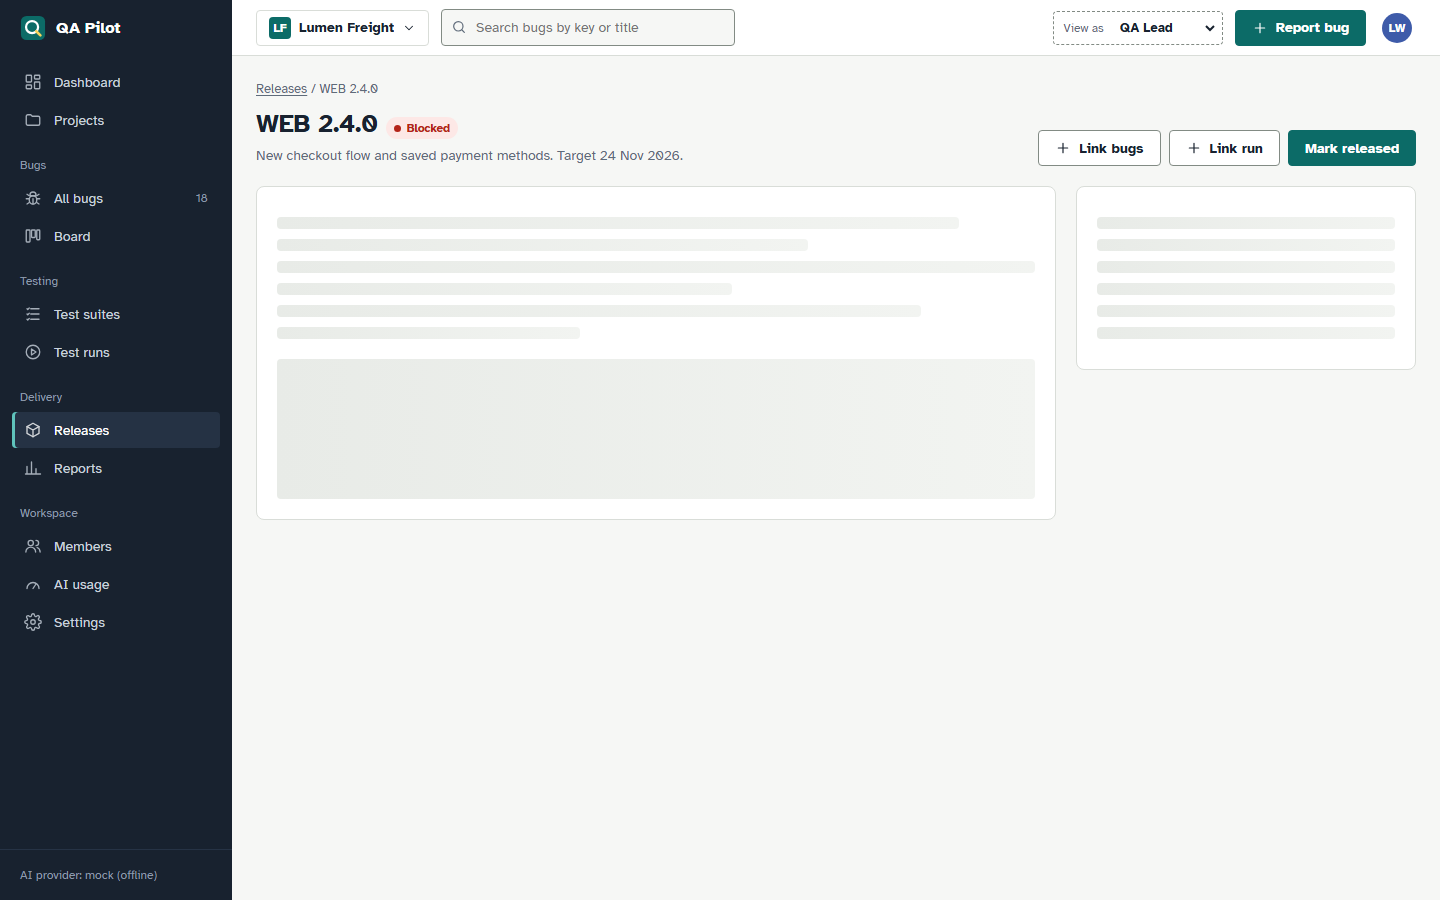
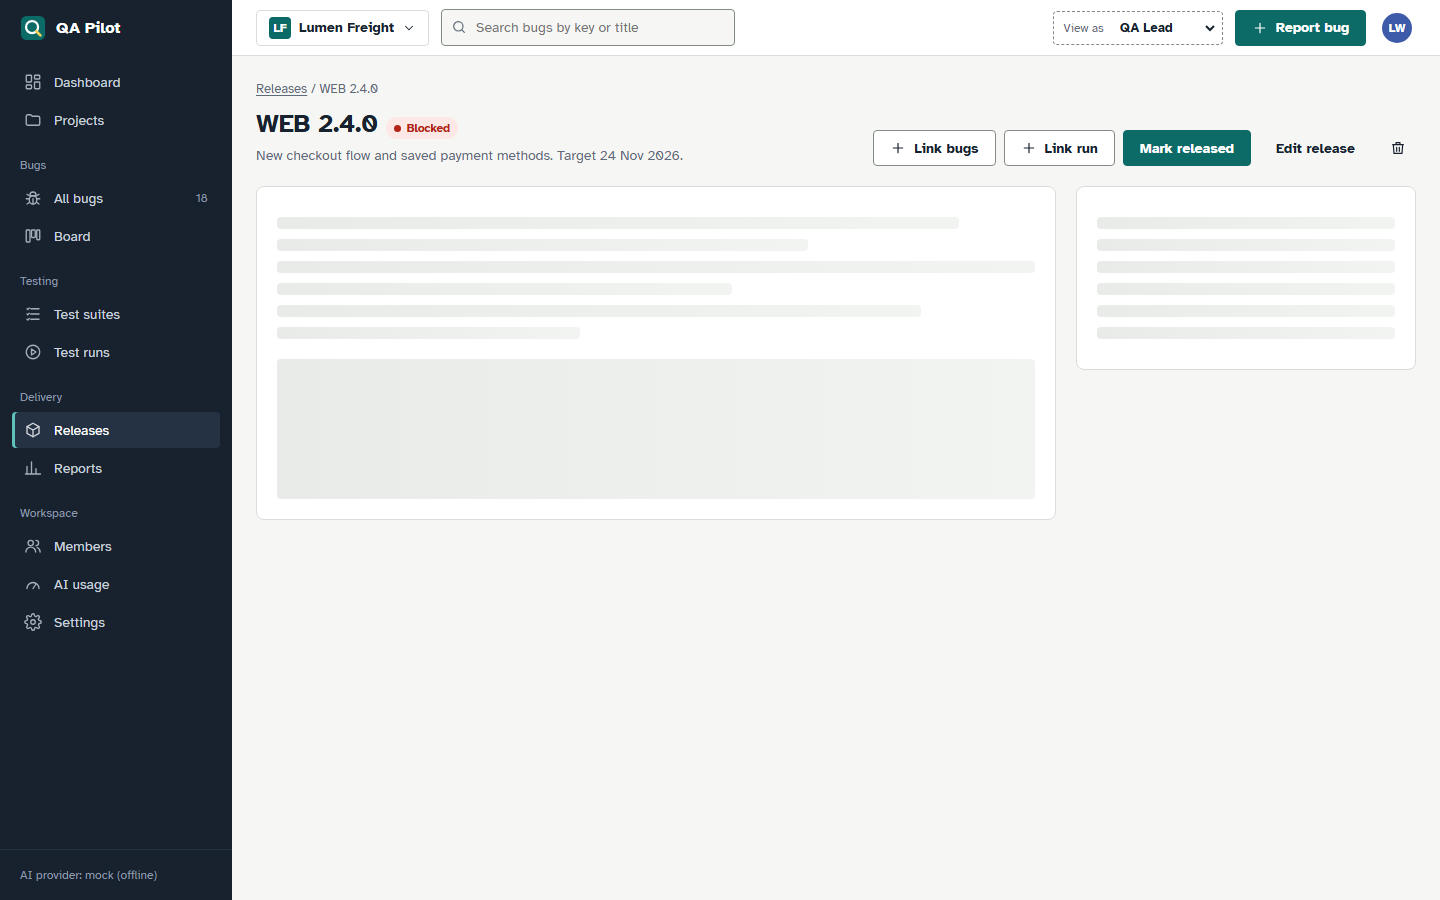
design: Edit release, Delete and a Remove column on the release detail (prototype first, I-08)

Changed region(s): [[0.7188, 0.1244, 1.0, 0.1867], [0.625, 0.1556, 0.6875, 0.1867]]

diff --git a/design/reference/approved.html b/design/reference/approved.html
@@ -1137,10 +1137,10 @@ function filteredBugs() {
   if (F.sort === 'priority') list.sort((a, b) => a.pri.localeCompare(b.pri) || a.h - b.h);
   return list;
 }
-function bugTable(list, sortable = true) {
+function bugTable(list, sortable = true, removable = false) {
   const sortBtn = (k, label) => sortable ? `<button data-action="sort" data-sort="${k}" aria-label="Sort by ${label}">${label}${F.sort === k ? ic.down.replace('<svg', '<svg width="12" height="12"') : ''}</button>` : label;
-  return `<div class="table-wrap"><table class="t stackable"><thead><tr><th>Key</th><th>Title</th><th>Status</th><th>${sortBtn('severity', 'Severity')}</th><th>${sortBtn('priority', 'Priority')}</th><th>Assignee</th><th>${sortBtn('updated', 'Updated')}</th></tr></thead><tbody>
-    ${list.map(b => `<tr><td data-label="Key" class="no-label"><span class="mono muted">${b.key}</span></td><td class="title-cell"><a href="${o('/bugs/' + b.key)}">${esc(b.title)}</a><div class="xs muted">${esc(b.comp)}, ${b.env}${b.labels.length ? ' ' + labelChips(b.labels) : ''}</div></td><td data-label="Status">${stBadge(b.status)}</td><td data-label="Severity">${sevBadge(b.sev)}</td><td data-label="Priority">${priTag(b.pri)}</td><td data-label="Assignee">${who(b.assignee)}</td><td data-label="Updated"><span class="small">${ago(b.h)}</span>${slaBreached(b) ? ` <span class="badge sla" title="Not fixed within ${SLA_TEXT[b.sev]} of being reported (SLA for ${SEV_NAME[b.sev]} bugs)">Past SLA</span>` : ''}</td></tr>`).join('')}
+  return `<div class="table-wrap"><table class="t stackable"><thead><tr><th>Key</th><th>Title</th><th>Status</th><th>${sortBtn('severity', 'Severity')}</th><th>${sortBtn('priority', 'Priority')}</th><th>Assignee</th><th>${sortBtn('updated', 'Updated')}</th>${removable ? '<th><span class="sr-only">Actions</span></th>' : ''}</tr></thead><tbody>
+    ${list.map(b => `<tr><td data-label="Key" class="no-label"><span class="mono muted">${b.key}</span></td><td class="title-cell"><a href="${o('/bugs/' + b.key)}">${esc(b.title)}</a><div class="xs muted">${esc(b.comp)}, ${b.env}${b.labels.length ? ' ' + labelChips(b.labels) : ''}</div></td><td data-label="Status">${stBadge(b.status)}</td><td data-label="Severity">${sevBadge(b.sev)}</td><td data-label="Priority">${priTag(b.pri)}</td><td data-label="Assignee">${who(b.assignee)}</td><td data-label="Updated"><span class="small">${ago(b.h)}</span>${slaBreached(b) ? ` <span class="badge sla" title="Not fixed within ${SLA_TEXT[b.sev]} of being reported (SLA for ${SEV_NAME[b.sev]} bugs)">Past SLA</span>` : ''}</td>${removable ? `<td data-label="Actions"><button class="btn ghost sm" data-action="toast" data-msg="${b.key} removed from the release">Remove</button></td>` : ''}</tr>`).join('')}
   </tbody></table></div>`;
 }
 function scrBugList() {
@@ -1411,15 +1411,15 @@ function scrReleases() {
 function scrRelease(id) {
   const r = RELEASES.find(x => x.id === id); if (!r) return scrNotFound();
   const rd = readiness(r);
-  const head = pageHead(`${esc(r.name)} ${readyBadge(rd.status)}`, `${esc(r.desc)} Target ${fmtDate(r.target)}.`, can('release.manage') ? `<button class="btn" data-action="toast" data-msg="Bugs linked">${ic.plus}Link bugs</button><button class="btn" data-action="toast" data-msg="Run linked">${ic.plus}Link run</button>${r.status !== 'released' ? `<button class="btn primary" data-action="toast" data-msg="Marked as released">Mark released</button>` : ''}` : '', `<a href="${o('/releases')}">Releases</a> / ${esc(r.name)}`);
+  const head = pageHead(`${esc(r.name)} ${readyBadge(rd.status)}`, `${esc(r.desc)} Target ${fmtDate(r.target)}.`, can('release.manage') ? `<button class="btn" data-action="toast" data-msg="Bugs linked">${ic.plus}Link bugs</button><button class="btn" data-action="toast" data-msg="Run linked">${ic.plus}Link run</button>${r.status !== 'released' ? `<button class="btn primary" data-action="toast" data-msg="Marked as released">Mark released</button>` : ''}<button class="btn ghost" data-action="toast" data-msg="Release saved">Edit release</button>${r.status !== 'released' ? `<button class="btn ghost icon-btn" data-action="toast" data-msg="Release deleted" aria-label="Delete release">${ic.trash}</button>` : ''}` : '', `<a href="${o('/releases')}">Releases</a> / ${esc(r.name)}`);
   const g = stateGate('detail', 'this release'); if (g) return head + g;
   const ai = S.state === 'ai';
   const bugs = BUGS.filter(b => b.release === r.id);
   return head + `<div class="split"><div class="stack">
       <section class="panel"><div class="panel-head"><h2>Why it is ${readinessName[rd.status].toLowerCase()}</h2></div><div class="panel-body"><ul style="margin:0;padding-left:20px">${rd.reasons.map(x => `<li>${esc(x)}</li>`).join('')}</ul>
         <p class="xs muted" style="margin-top:12px">Blocked: any open Critical bug, or pass rate under 80%. At risk: open High bugs, pass rate under 95%, runs in progress, or no runs.</p></div></section>
-      <section class="panel"><div class="panel-head"><h2>Linked bugs</h2><span class="small muted">${rd.open} open of ${bugs.length}</span></div>${bugs.length ? bugTable(bugs, false) : '<div class="panel-body muted">No bugs linked.</div>'}</section>
-      <section class="panel"><div class="panel-head"><h2>Linked test runs</h2></div>${rd.runs.length ? `<div class="table-wrap"><table class="t stackable"><tbody>${rd.runs.map(x => `<tr><td class="title-cell"><a href="${o('/runs/' + x.id)}">${esc(x.name)}</a></td><td data-label="Status">${x.status === 'completed' ? 'Completed' : 'In progress'}</td><td data-label="Progress" style="width:36%">${progressBar(runCounts(x))}</td><td data-label="Pass rate"><b>${passRate([x])}%</b></td></tr>`).join('')}</tbody></table></div>` : '<div class="panel-body muted">No runs linked.</div>'}</section>
+      <section class="panel"><div class="panel-head"><h2>Linked bugs</h2><span class="small muted">${rd.open} open of ${bugs.length}</span></div>${bugs.length ? bugTable(bugs, false, can('release.manage')) : '<div class="panel-body muted">No bugs linked.</div>'}</section>
+      <section class="panel"><div class="panel-head"><h2>Linked test runs</h2></div>${rd.runs.length ? `<div class="table-wrap"><table class="t stackable"><tbody>${rd.runs.map(x => `<tr><td class="title-cell"><a href="${o('/runs/' + x.id)}">${esc(x.name)}</a></td><td data-label="Status">${x.status === 'completed' ? 'Completed' : 'In progress'}</td><td data-label="Progress" style="width:36%">${progressBar(runCounts(x))}</td><td data-label="Pass rate"><b>${passRate([x])}%</b></td>${can('release.manage') ? `<td data-label="Actions"><button class="btn ghost sm" data-action="toast" data-msg="${esc(x.name)} removed from the release">Remove</button></td>` : ''}</tr>`).join('')}</tbody></table></div>` : '<div class="panel-body muted">No runs linked.</div>'}</section>
     </div>
     <aside class="stack">${summaryPanel(r, rd, ai)}</aside></div>`;
 }
